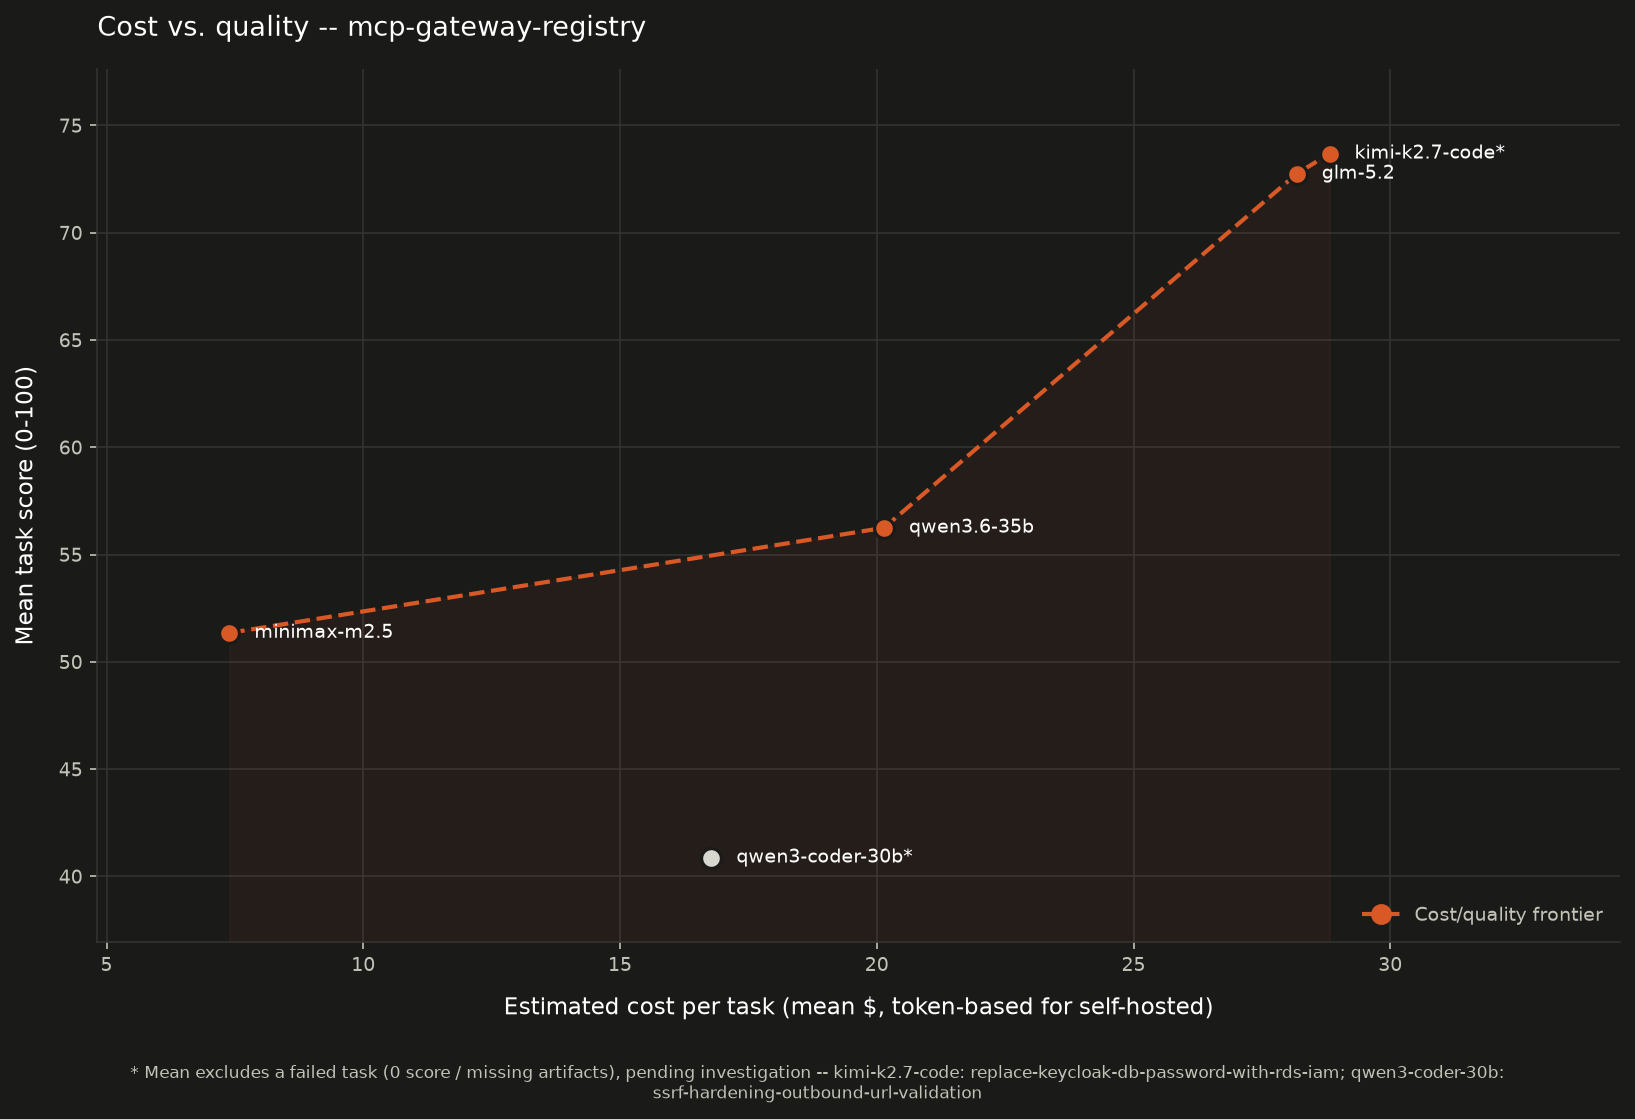
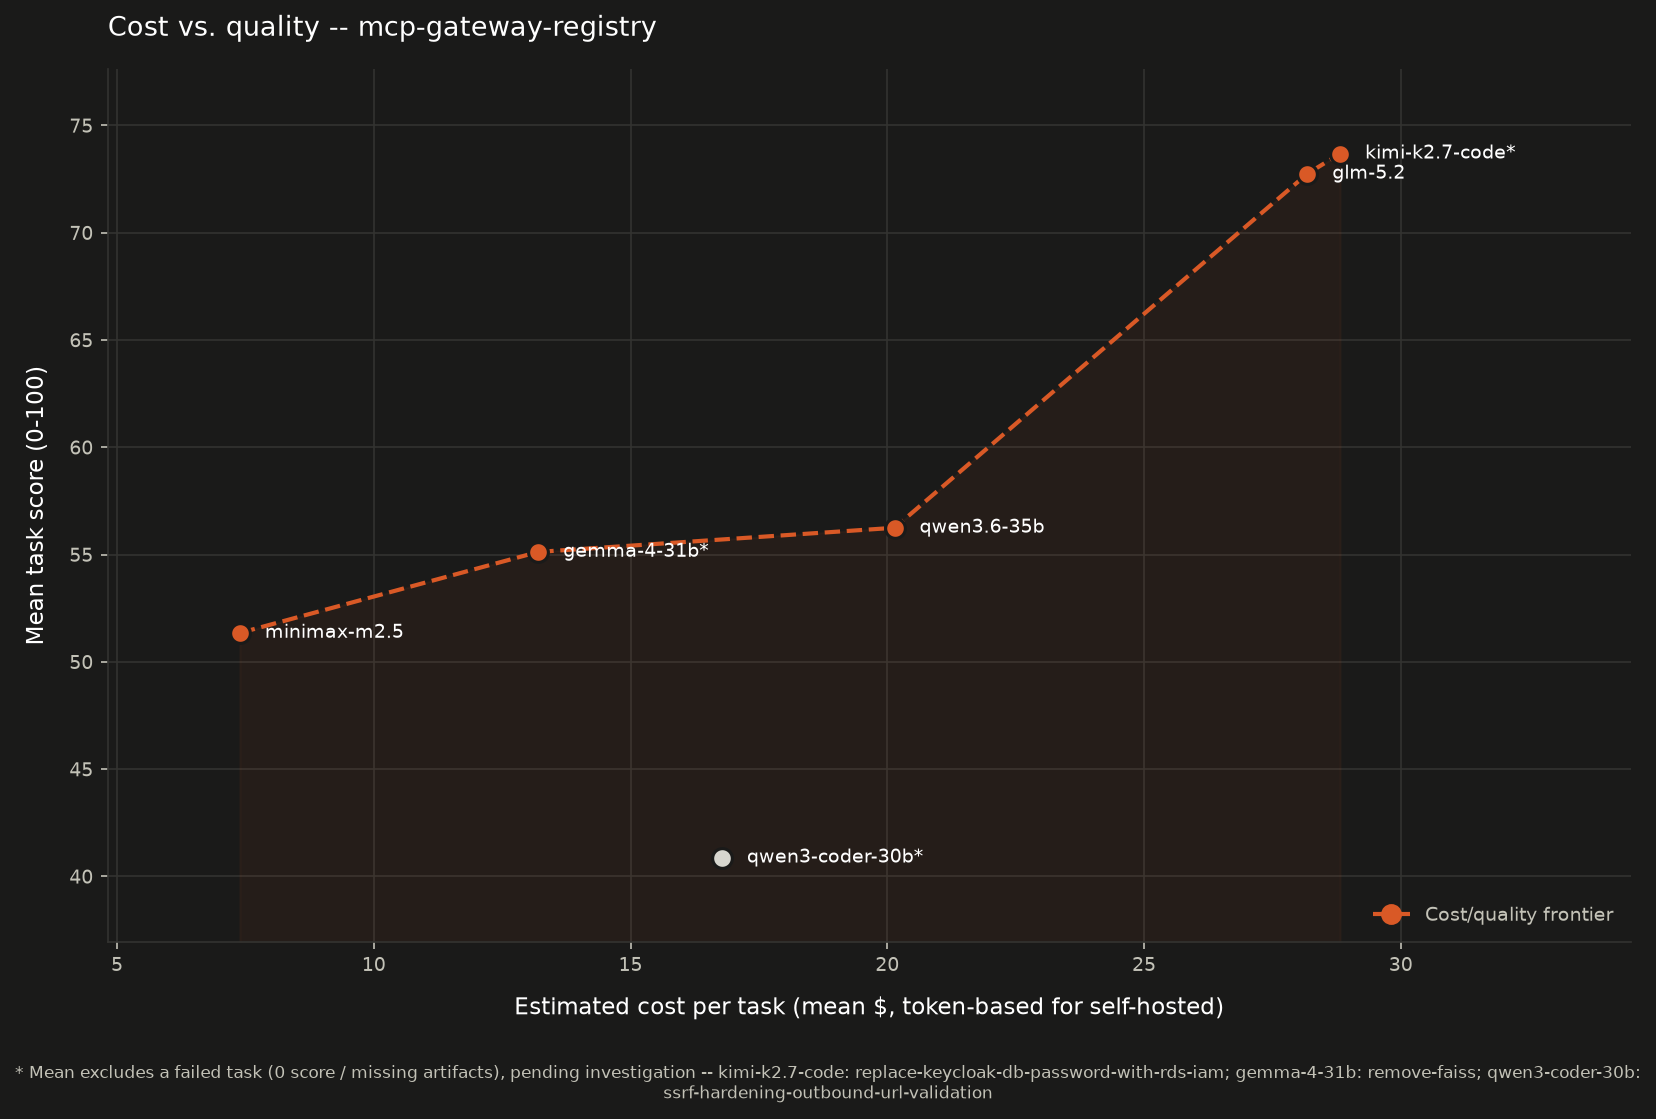
Add Gemma-4-31B-it self-hosted results to the README and chart
Gemma-4-31B-it (dense, self-hosted on g6e.12xlarge via vLLM, gemma4 parser,
--timeout-seconds 3600) scored 4 of 5 tasks, mean 55.12, ~$13.2 est/task.
remove-faiss produced only 3 of 4 artifacts -> scored 0 (model failure),
excluded from the mean per the existing convention; keycloak-rds-iam
initially hit a transient codex-judge failure and was re-judged to 52.0.

- Results table gains a Gemma-4-31B column; leaderboard adds it at rank 4.
- Chart regenerated: 6 models, Gemma is on the frontier between MiniMax and
  Qwen3.6-35B (and dominates Qwen3-Coder-30B, which stays off-frontier).
- Footnote 5, hardware note, mean-note, frontier caption, and the intro
  model list all updated; corrected the now-false "only model to complete
  all five tasks" claim (GLM-5.2 and MiniMax also went 5/5).

diff --git a/README.md b/README.md
@@ -107,7 +107,7 @@ To show what the harness produces, we ran it against [agentic-community/mcp-gate
 | 4 | `migrate-ecs-env-vars-to-secrets-manager` | High | Upstream [#1134](https://github.com/agentic-community/mcp-gateway-registry/issues/1134) |
 | 5 | `replace-keycloak-db-password-with-rds-iam` | High | Upstream [#1303](https://github.com/agentic-community/mcp-gateway-registry/issues/1303) |
 
-**Models benchmarked so far (all Path 3, self-hosted on vLLM):** Kimi-K2.7-Code, GLM-5.2, and MiniMax-M2.5 (all on 8x H200 / `p5en.48xlarge`), plus Qwen3.6-35B-A3B, Qwen3-Coder-30B-A3B-Instruct, and Qwen3-Coder-Next (the three Qwen models on `g6e.12xlarge` / 4x L40S). **Coming soon:** Path 1 (Anthropic family on Bedrock -- Claude Opus/Sonnet/Haiku) and Path 2 (open-weight on Bedrock via the LiteLLM proxy -- DeepSeek, Mistral, …).
+**Models benchmarked so far (all Path 3, self-hosted on vLLM):** Kimi-K2.7-Code, GLM-5.2, and MiniMax-M2.5 (all on 8x H200 / `p5en.48xlarge`), plus Qwen3.6-35B-A3B, Qwen3-Coder-30B-A3B-Instruct, Qwen3-Coder-Next, and Gemma-4-31B-it (on `g6e.12xlarge` / 4x L40S). **Coming soon:** Path 1 (Anthropic family on Bedrock -- Claude Opus/Sonnet/Haiku) and Path 2 (open-weight on Bedrock via the LiteLLM proxy -- DeepSeek, Mistral, …).
 
 ### Scoring rubric (LLM-as-judge)
 
@@ -126,22 +126,22 @@ Each of the 4 artifacts is scored 0-100 by an independent judge session. Within 
 
 All cells are task scores (0-100), the mean of the 4 artifact totals per (task x model). All models were **self-hosted via vLLM** and scored by the same judge (`codex exec`, `gpt-5.6-sol`, high reasoning effort). Hardware differs by model size (see the row under the table). Bold = top score in row. Other hosting paths are **coming soon**.
 
-| Task | Difficulty | Kimi-K2.7-Code | GLM-5.2⁶ | Qwen3.6-35B | MiniMax-M2.5 | Qwen3-Coder-30B | Qwen3-Coder-Next⁴ |
-|------|-----------|---------------:|---------:|------------:|-------------:|----------------:|:-----------------:|
-| `remove-faiss` | Medium | **75.25** | 66.0 | 59.25 | 55.75 | 49.0 | n/a |
-| `remove-efs-from-terraform-aws-ecs` | Medium | 71.25 | **79.0** | 63.0 | 58.5 | 45.0 | n/a |
-| `ssrf-hardening-outbound-url-validation` | Medium | 72.75 | **76.75** | 55.75 | 49.5 | 0.0 ⁵ | n/a |
-| `migrate-ecs-env-vars-to-secrets-manager` | High | **75.5** | 73.5 | 54.5 | 45.0 | 36.25 | n/a |
-| `replace-keycloak-db-password-with-rds-iam` | High | 0.0 ⁵ | **68.5** | 48.75 | 48.0 | 33.25 | n/a |
-| **Mean (excl. failed task⁵)** | | **73.69** | 72.75 | **56.25** | 51.35 | 40.88 | n/a |
+| Task | Difficulty | Kimi-K2.7-Code | GLM-5.2⁶ | Qwen3.6-35B | Gemma-4-31B | MiniMax-M2.5 | Qwen3-Coder-30B | Qwen3-Coder-Next⁴ |
+|------|-----------|---------------:|---------:|------------:|------------:|-------------:|----------------:|:-----------------:|
+| `remove-faiss` | Medium | **75.25** | 66.0 | 59.25 | 0.0 ⁵ | 55.75 | 49.0 | n/a |
+| `remove-efs-from-terraform-aws-ecs` | Medium | 71.25 | **79.0** | 63.0 | 59.5 | 58.5 | 45.0 | n/a |
+| `ssrf-hardening-outbound-url-validation` | Medium | 72.75 | **76.75** | 55.75 | 63.25 | 49.5 | 0.0 ⁵ | n/a |
+| `migrate-ecs-env-vars-to-secrets-manager` | High | **75.5** | 73.5 | 54.5 | 45.75 | 45.0 | 36.25 | n/a |
+| `replace-keycloak-db-password-with-rds-iam` | High | 0.0 ⁵ | **68.5** | 48.75 | 52.0 | 48.0 | 33.25 | n/a |
+| **Mean (excl. failed task⁵)** | | **73.69** | 72.75 | **56.25** | 55.12 | 51.35 | 40.88 | n/a |
 
-The **Mean** row excludes any task that scored 0 -- a genuine model failure (missing artifacts), which is an unresolved anomaly rather than a quality measurement, so it is left out of the average **pending further investigation** and flagged with `⁵`. Per-task 0.0 cells are still shown so the failure is visible; Kimi's mean is over the 4 tasks it completed, Qwen3-Coder-30B's over its 4, and Qwen3.6-35B's over all 5 (no failures).
+The **Mean** row excludes any task that scored 0 -- a genuine model failure (missing artifacts), which is an unresolved anomaly rather than a quality measurement, so it is left out of the average **pending further investigation** and flagged with `⁵`. Per-task 0.0 cells are still shown so the failure is visible; Kimi's mean is over the 4 tasks it completed, Gemma-4-31B's over its 4, Qwen3-Coder-30B's over its 4, and GLM-5.2 / Qwen3.6-35B / MiniMax-M2.5 over all 5 (no failures).
 
-**Hardware:** Kimi-K2.7-Code (1.06T-param MoE, ~1 TB weights) ran on **8x H200** (`p5en.48xlarge`) at its full **131,072-token (128K) native context window**; GLM-5.2 (744B MoE / 40B active, ~750 GB FP8 weights) and MiniMax-M2.5 also ran on **8x H200** (`p5en.48xlarge`); the three Qwen models (3B-active MoE) ran on a single **`g6e.12xlarge`** (4x L40S) at a 200K window. All via vLLM. Note Kimi's 128K window is below the harness's 200K agentic-coding guideline, yet it completed 4 of 5 tasks -- the one failure (`keycloak-rds-iam`) was a turn-cap timeout, not a context overflow.
+**Hardware:** Kimi-K2.7-Code (1.06T-param MoE, ~1 TB weights) ran on **8x H200** (`p5en.48xlarge`) at its full **131,072-token (128K) native context window**; GLM-5.2 (744B MoE / 40B active, ~750 GB FP8 weights) and MiniMax-M2.5 also ran on **8x H200** (`p5en.48xlarge`); the three Qwen models (3B-active MoE) and Gemma-4-31B (dense, ~63 GB) ran on a single **`g6e.12xlarge`** (4x L40S) at a 200K window. All via vLLM. Gemma-4-31B is dense and slow, so it used a raised per-task timeout (`--timeout-seconds 3600`); the default 1800s was not enough for it to return. Note Kimi's 128K window is below the harness's 200K agentic-coding guideline, yet it completed 4 of 5 tasks -- the one failure (`keycloak-rds-iam`) was a turn-cap timeout, not a context overflow.
 
 ⁴ Qwen3-Coder-Next (79.6B, ~160 GB weights) **could not be benchmarked on the `g6e.12xlarge`.** There the weights leave room for only a ~16K context window, but agentic coding tasks need 100K-250K input tokens per request, so every task overflows the window on the first prompt. It needs a larger-VRAM node (e.g. `g6e.48xlarge`) to serve a >=200K window. The `/benchmark` skill enforces a 200K-minimum gate by default as a conservative guideline -- Kimi's 128K run shows a window somewhat below 200K can still work when the tasks fit, but 16K cannot. See [self-hosted/vllm/models/qwen3-coder-next.md](self-hosted/vllm/models/qwen3-coder-next.md).
 
-⁵ **Genuine model failures, scored 0.** Kimi-K2.7-Code on `keycloak-rds-iam` and Qwen3-Coder-30B on `ssrf` both hit the 60-turn cap without writing all four required design artifacts (Kimi produced 2 of 4; Qwen3-Coder-30B spent every turn editing repo source instead of writing design docs and produced 0). The judge records a missing-artifact folder as a 0 with a `MODEL FAILURE` verdict rather than dropping it from the results. Excluding these single failed tasks, Kimi averages 73.69 and Qwen3-Coder-30B averages 40.88 over the tasks they completed.
+⁵ **Genuine model failures, scored 0.** Kimi-K2.7-Code on `keycloak-rds-iam`, Qwen3-Coder-30B on `ssrf`, and Gemma-4-31B on `remove-faiss` each failed to produce all four required design artifacts (Kimi 2 of 4 and Qwen3-Coder-30B 0 of 4 -- both hit the 60-turn cap; Gemma-4-31B produced 3 of 4). The judge records a missing-artifact folder as a 0 with a `MODEL FAILURE` verdict rather than dropping it from the results. Excluding these single failed tasks, Kimi averages 73.69, Gemma-4-31B 55.12, and Qwen3-Coder-30B 40.88 over the tasks they completed.
 
 ⁶ **GLM-5.2 ran with more headroom than the others -- not strictly apples-to-apples.** GLM-5.2 (`zai-org/GLM-5.2-FP8`, 744B MoE / 40B active, ~750 GB FP8 weights) was served on **8x H200** at a **300K context window** and run with **`max_turns=100`**, whereas Kimi ran at its native 128K window and all models above used the default 60-turn cap. The larger turn budget is why GLM-5.2 completed all 5 tasks including `keycloak-rds-iam` (the task Kimi failed at the 60-turn cap): its mean is over 5/5 tasks with no failures. Treat the GLM-5.2 vs Kimi comparison as indicative rather than head-to-head until both are re-run under identical window/turn settings.
 
@@ -149,7 +149,7 @@ The **Mean** row excludes any task that scored 0 -- a genuine model failure (mis
 
 ![Cost vs. quality scatter: mean estimated cost per task against mean task score, for the self-hosted models, with the cost/quality frontier highlighted](docs/images/cost-quality.png)
 
-Mean estimated cost per task (x, token-based for self-hosted) against mean task score (y), one point per model. The cost/quality frontier runs MiniMax-M2.5 -> Qwen3.6-35B -> GLM-5.2 -> Kimi-K2.7-Code; Qwen3-Coder-30B sits **below** the frontier (dominated -- it costs more than MiniMax yet scores lower), and Qwen3-Coder-Next is omitted (no scored run on this node). A model's mean excludes any 0-score failed task, matching the table (see footnote ⁵). Regenerate from the run artifacts with `uv run scripts/plot_cost_quality.py` (add `--dark` for the dark theme) from `benchmarks/`.
+Mean estimated cost per task (x, token-based for self-hosted) against mean task score (y), one point per model. The cost/quality frontier runs MiniMax-M2.5 -> Gemma-4-31B -> Qwen3.6-35B -> GLM-5.2 -> Kimi-K2.7-Code; Qwen3-Coder-30B sits **below** the frontier (dominated -- it costs more than Gemma-4-31B yet scores lower), and Qwen3-Coder-Next is omitted (no scored run on this node). A model's mean excludes any 0-score failed task, matching the table (see footnote ⁵). Regenerate from the run artifacts with `uv run scripts/plot_cost_quality.py` (add `--dark` for the dark theme) from `benchmarks/`.
 
 ### Per-model leaderboard (self-hosted, so far)
 
@@ -160,8 +160,9 @@ Mean score is over the tasks each model completed (any 0-score failed task is ex
 | 1 | Kimi-K2.7-Code | 1,058.6B (MoE) | 8x H200 | **73.69** | 4/5 |
 | 2 | GLM-5.2⁶ | 744B (40B) | 8x H200 | **72.75** | 5/5 |
 | 3 | Qwen3.6-35B-A3B | 35.9B (3B) | g6e.12xlarge | **56.25** | 5/5 |
-| 4 | MiniMax-M2.5 | -- | 8x H200 | **51.35** | 5/5 |
-| 5 | Qwen3-Coder-30B-A3B-Instruct | 30.5B (3B) | g6e.12xlarge | **40.88** | 4/5 |
+| 4 | Gemma-4-31B-it | 31B (dense) | g6e.12xlarge | **55.12** | 4/5 |
+| 5 | MiniMax-M2.5 | -- | 8x H200 | **51.35** | 5/5 |
+| 6 | Qwen3-Coder-30B-A3B-Instruct | 30.5B (3B) | g6e.12xlarge | **40.88** | 4/5 |
 | - | Qwen3-Coder-Next | 79.6B (3B) | (needs bigger node) | not viable on g6e.12xlarge | 0 |
 
 **Coming soon:** Claude Opus/Sonnet/Haiku (Path 1, Bedrock) and the open-weight Bedrock models via the LiteLLM proxy (Path 2 -- DeepSeek, Mistral, …).
@@ -171,7 +172,7 @@ Mean score is over the tasks each model completed (any 0-score failed task is ex
 These are early self-hosted numbers on differing hardware; treat them as a starting point, not a final ranking. Cross-path comparisons wait until the Bedrock paths are run.
 
 - **Kimi-K2.7-Code leads on the tasks it completed** (73.69 over 4), ahead of Qwen3.6-35B (56.25) -- but it needs a far larger box (8x H200 vs a single g6e.12xlarge) and it failed one task outright (a turn-cap timeout on `keycloak-rds-iam`, excluded from its mean pending investigation).
-- **Qwen3.6-35B is the value story:** the only model here that completed all five tasks, on one mid-range GPU node, at a mean of 56.25 -- roughly median on this judge's calibration, and it never failed a task.
+- **Qwen3.6-35B is the value story:** on one mid-range GPU node (a single g6e.12xlarge, not an 8x H200 box) it scores 56.25 over all 5 tasks with no failures -- roughly median on this judge's calibration, and it edges out much larger models like MiniMax-M2.5 and the dense Gemma-4-31B.
 - **MiniMax-M2.5 is the cost story:** at ~$7.4 estimated per task it is the cheapest model measured (roughly a quarter of the ~$28-29 the trillion-parameter models cost), yet it scores 51.35 over 5/5 tasks -- on the cost/quality frontier and comfortably ahead of the more expensive Qwen3-Coder-30B, which it dominates.
 - **The judge is strict, and these are open-weight models on design (not coding) tasks.** Scores in the 45-75 range reflect artifacts that are serviceable but often light on the specificity and risk-analysis the rubric rewards; this is expected when smaller/coder-tuned models are asked to produce design documentation rather than code.
 - **The two 0s are real, not judging noise.** Both were the model exhausting its 60-turn budget without producing the full artifact set -- Qwen3-Coder-30B in particular kept trying to *implement* the SSRF fix instead of *designing* it. The harness caps turns and the judge scores the shortfall honestly.
